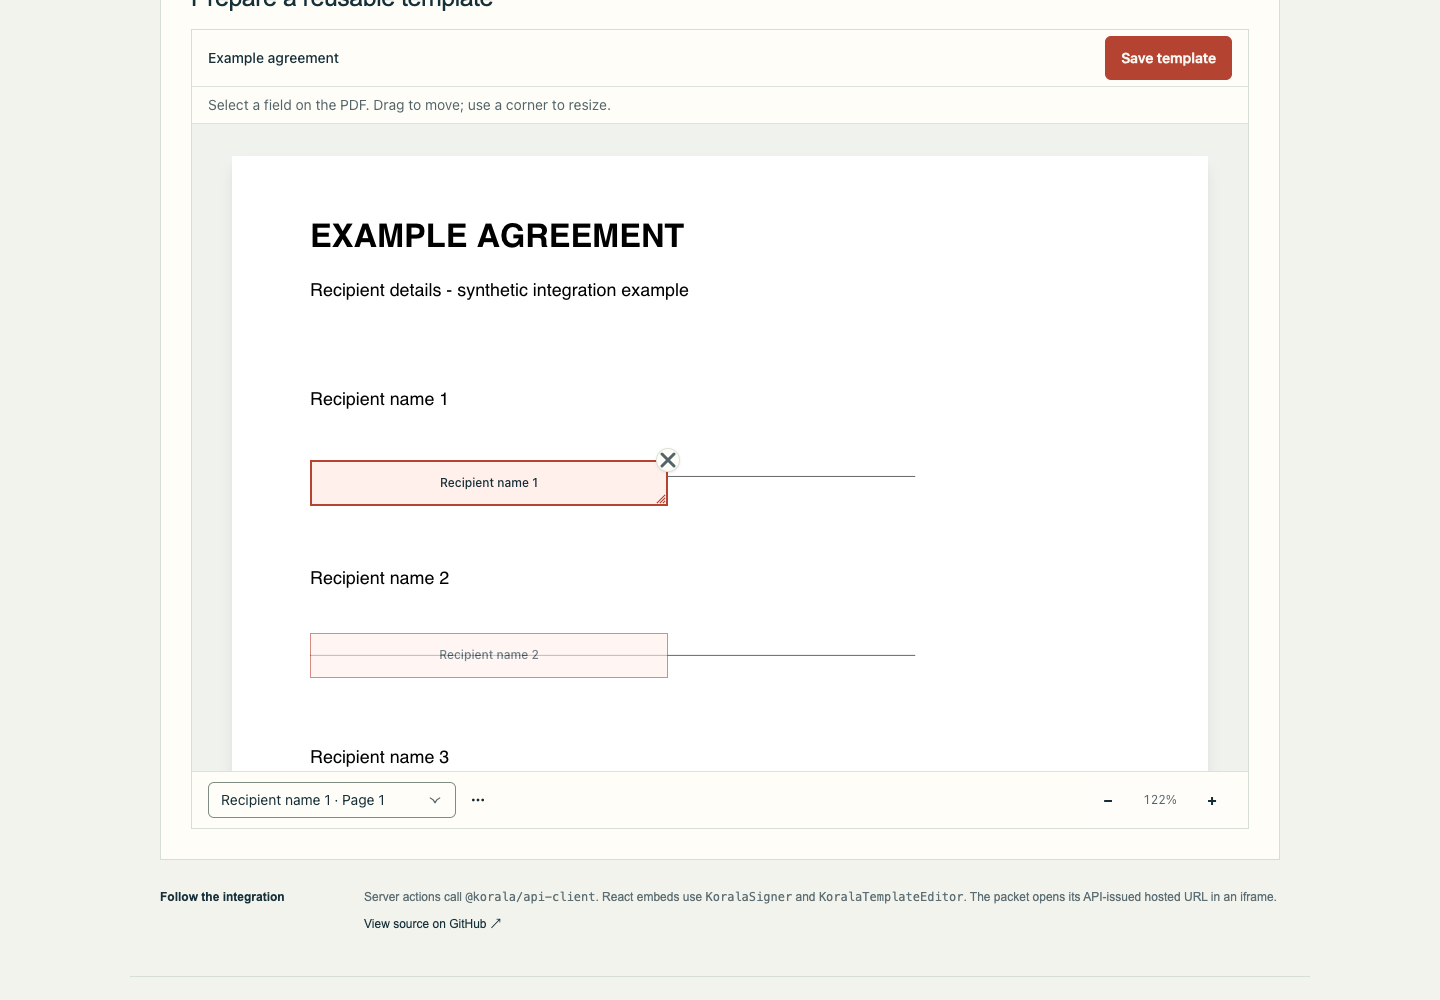
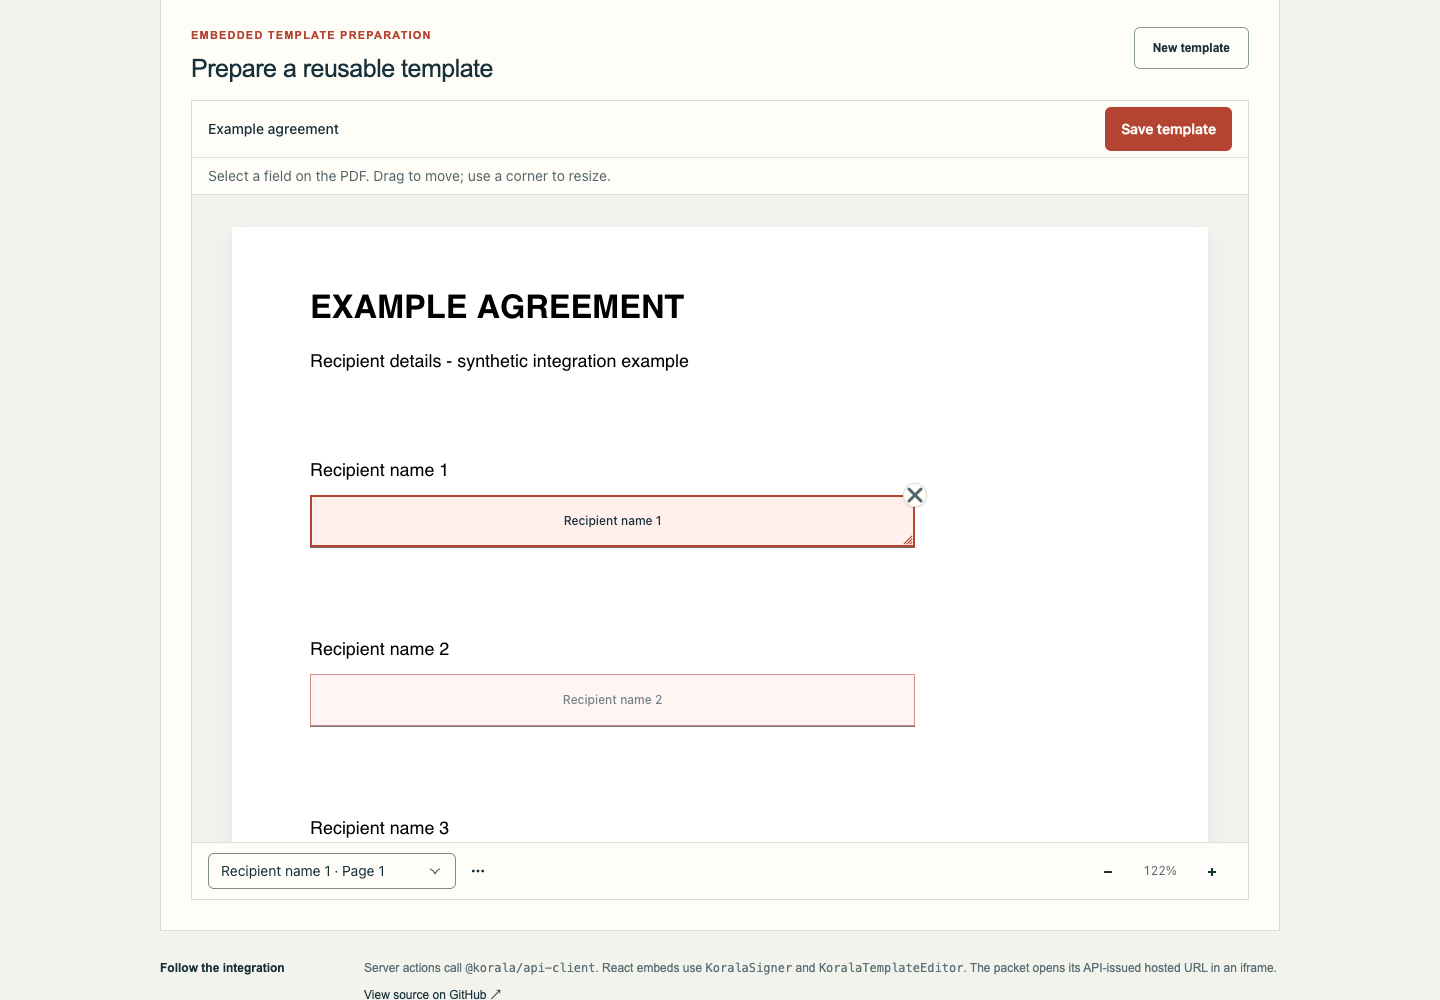
Screenshots for #1

diff --git a/pr-1/captions-20261016-182621.md b/pr-1/captions-20261016-182621.md
@@ -1,0 +1,10 @@
+01-signing-after-1440.png — Current SDKs and generated sample PDFs remove the manually configured template prerequisite.
+01-signing-after-390.png — Current SDKs and generated sample PDFs remove the manually configured template prerequisite.
+01-signing-before-1440.png — Public main: original template-dependent signing form.
+01-signing-before-390.png — Public main: original template-dependent signing form.
+02-review-after-1440.png — The backend positions fields on the generated sample’s known blanks: x=48, width=372 and height=32 PDF points, with y=165/275/385/495/605. This deterministic sample layout is not an AI result. Custom PDFs retain AI/manual positioning.
+02-review-after-390.png — The backend positions fields on the generated sample’s known blanks: x=48, width=372 and height=32 PDF points, with y=165/275/385/495/605. This deterministic sample layout is not an AI result. Custom PDFs retain AI/manual positioning.
+03-packet-after-1440.png — A real two-document signing packet loads its recipient-scoped hosted experience; backend polling reports viewed status.
+03-packet-after-390.png — A real two-document signing packet loads its recipient-scoped hosted experience; backend polling reports viewed status.
+04-full-after-1440.png — Full mode opens the reusable editor with field definitions and signer roles.
+04-full-after-390.png — Full mode opens the reusable editor with field definitions and signer roles.
